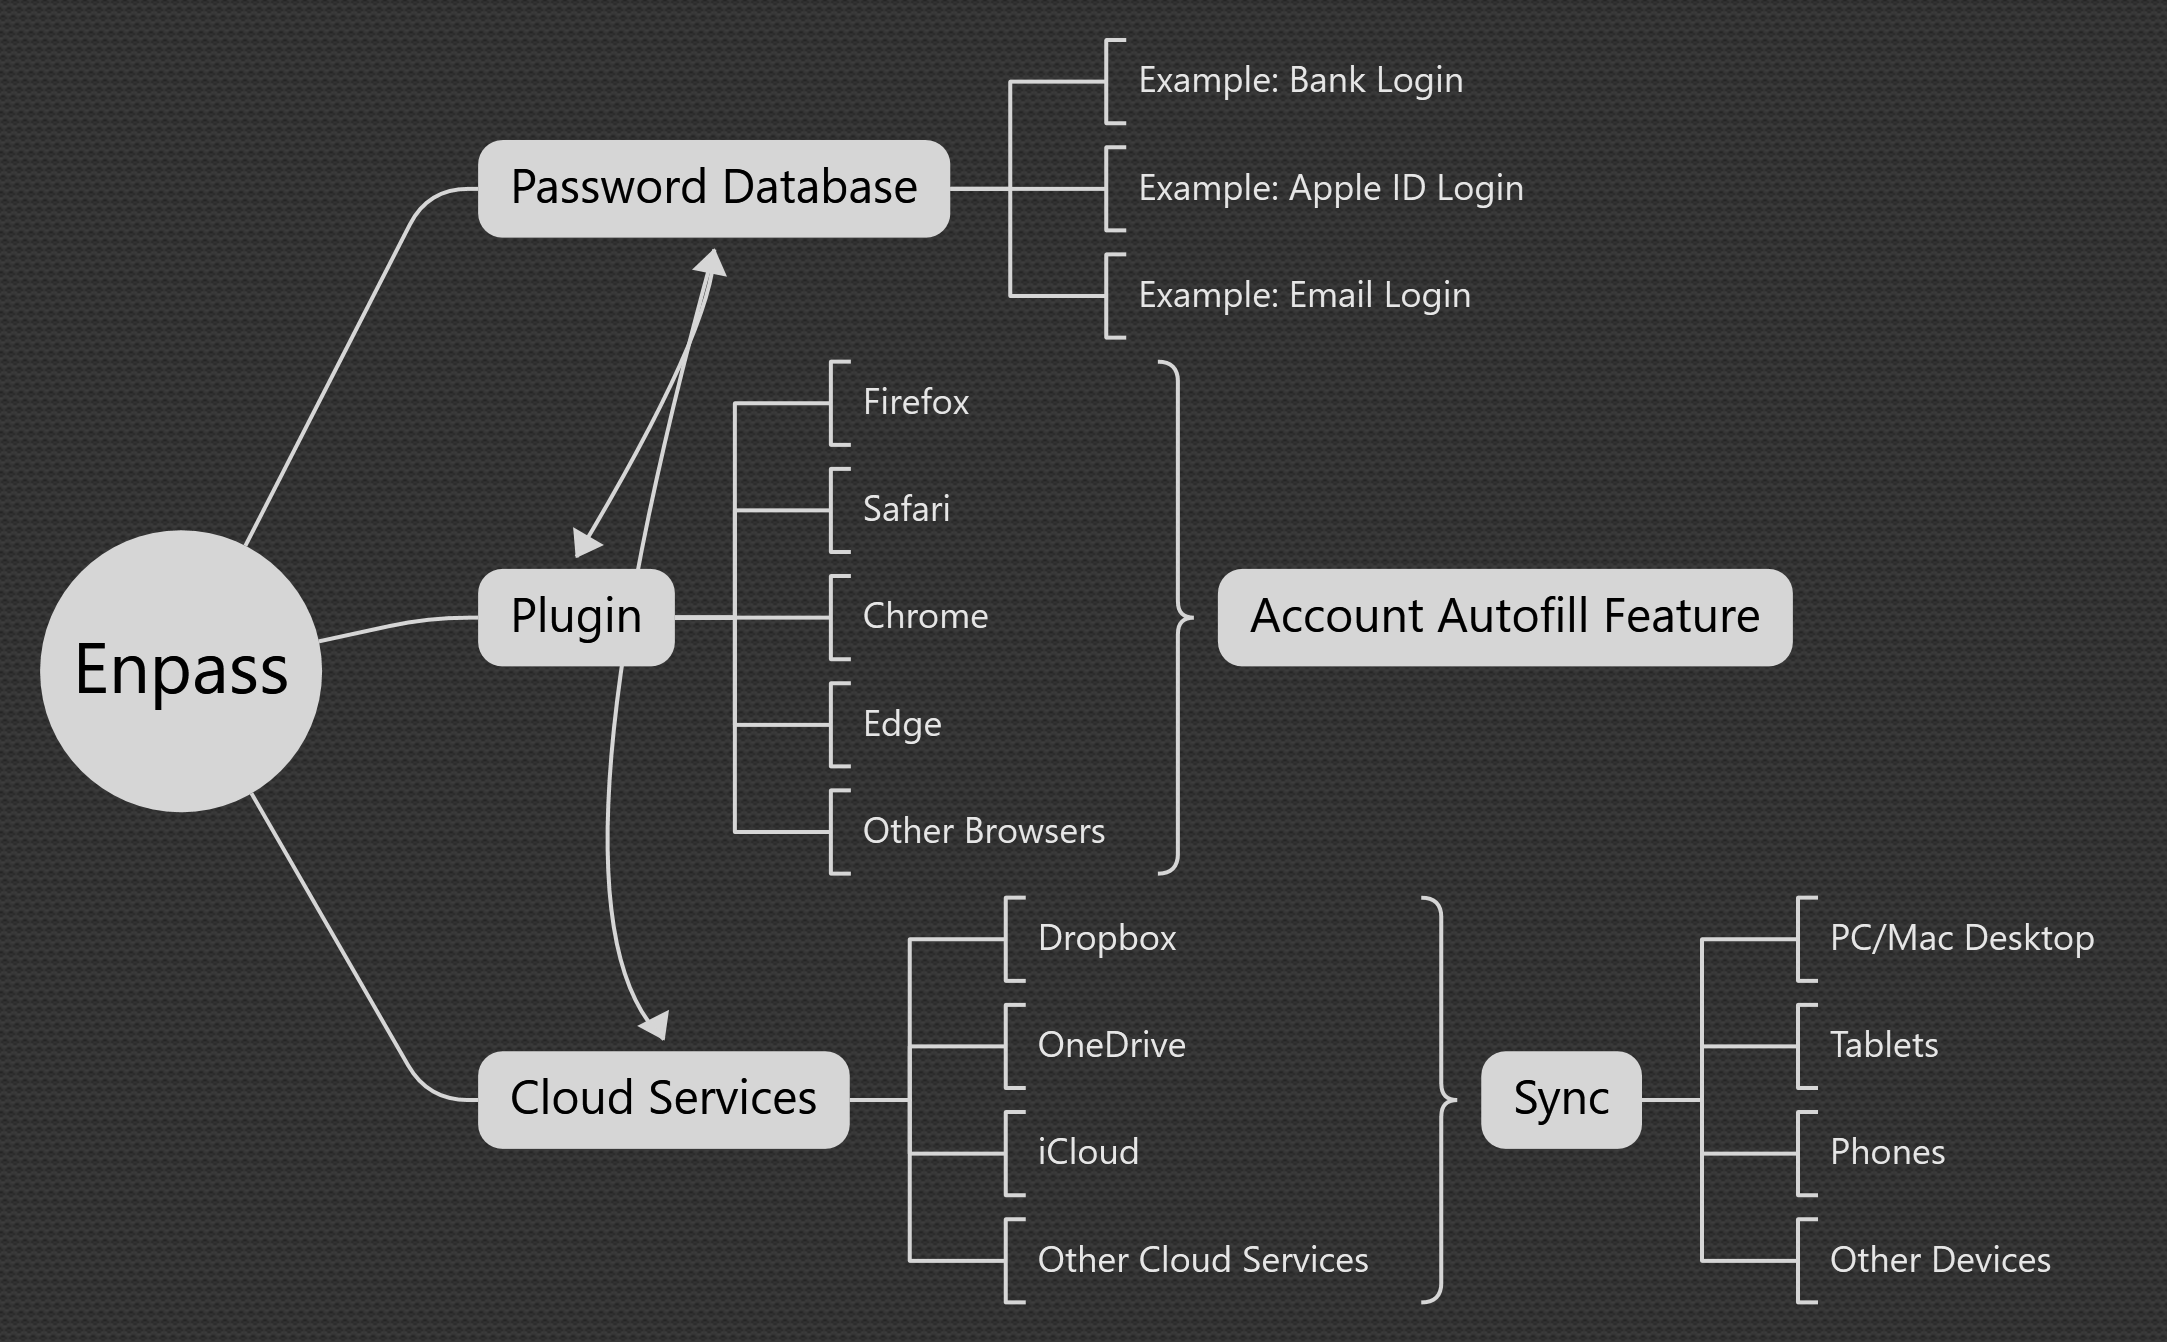
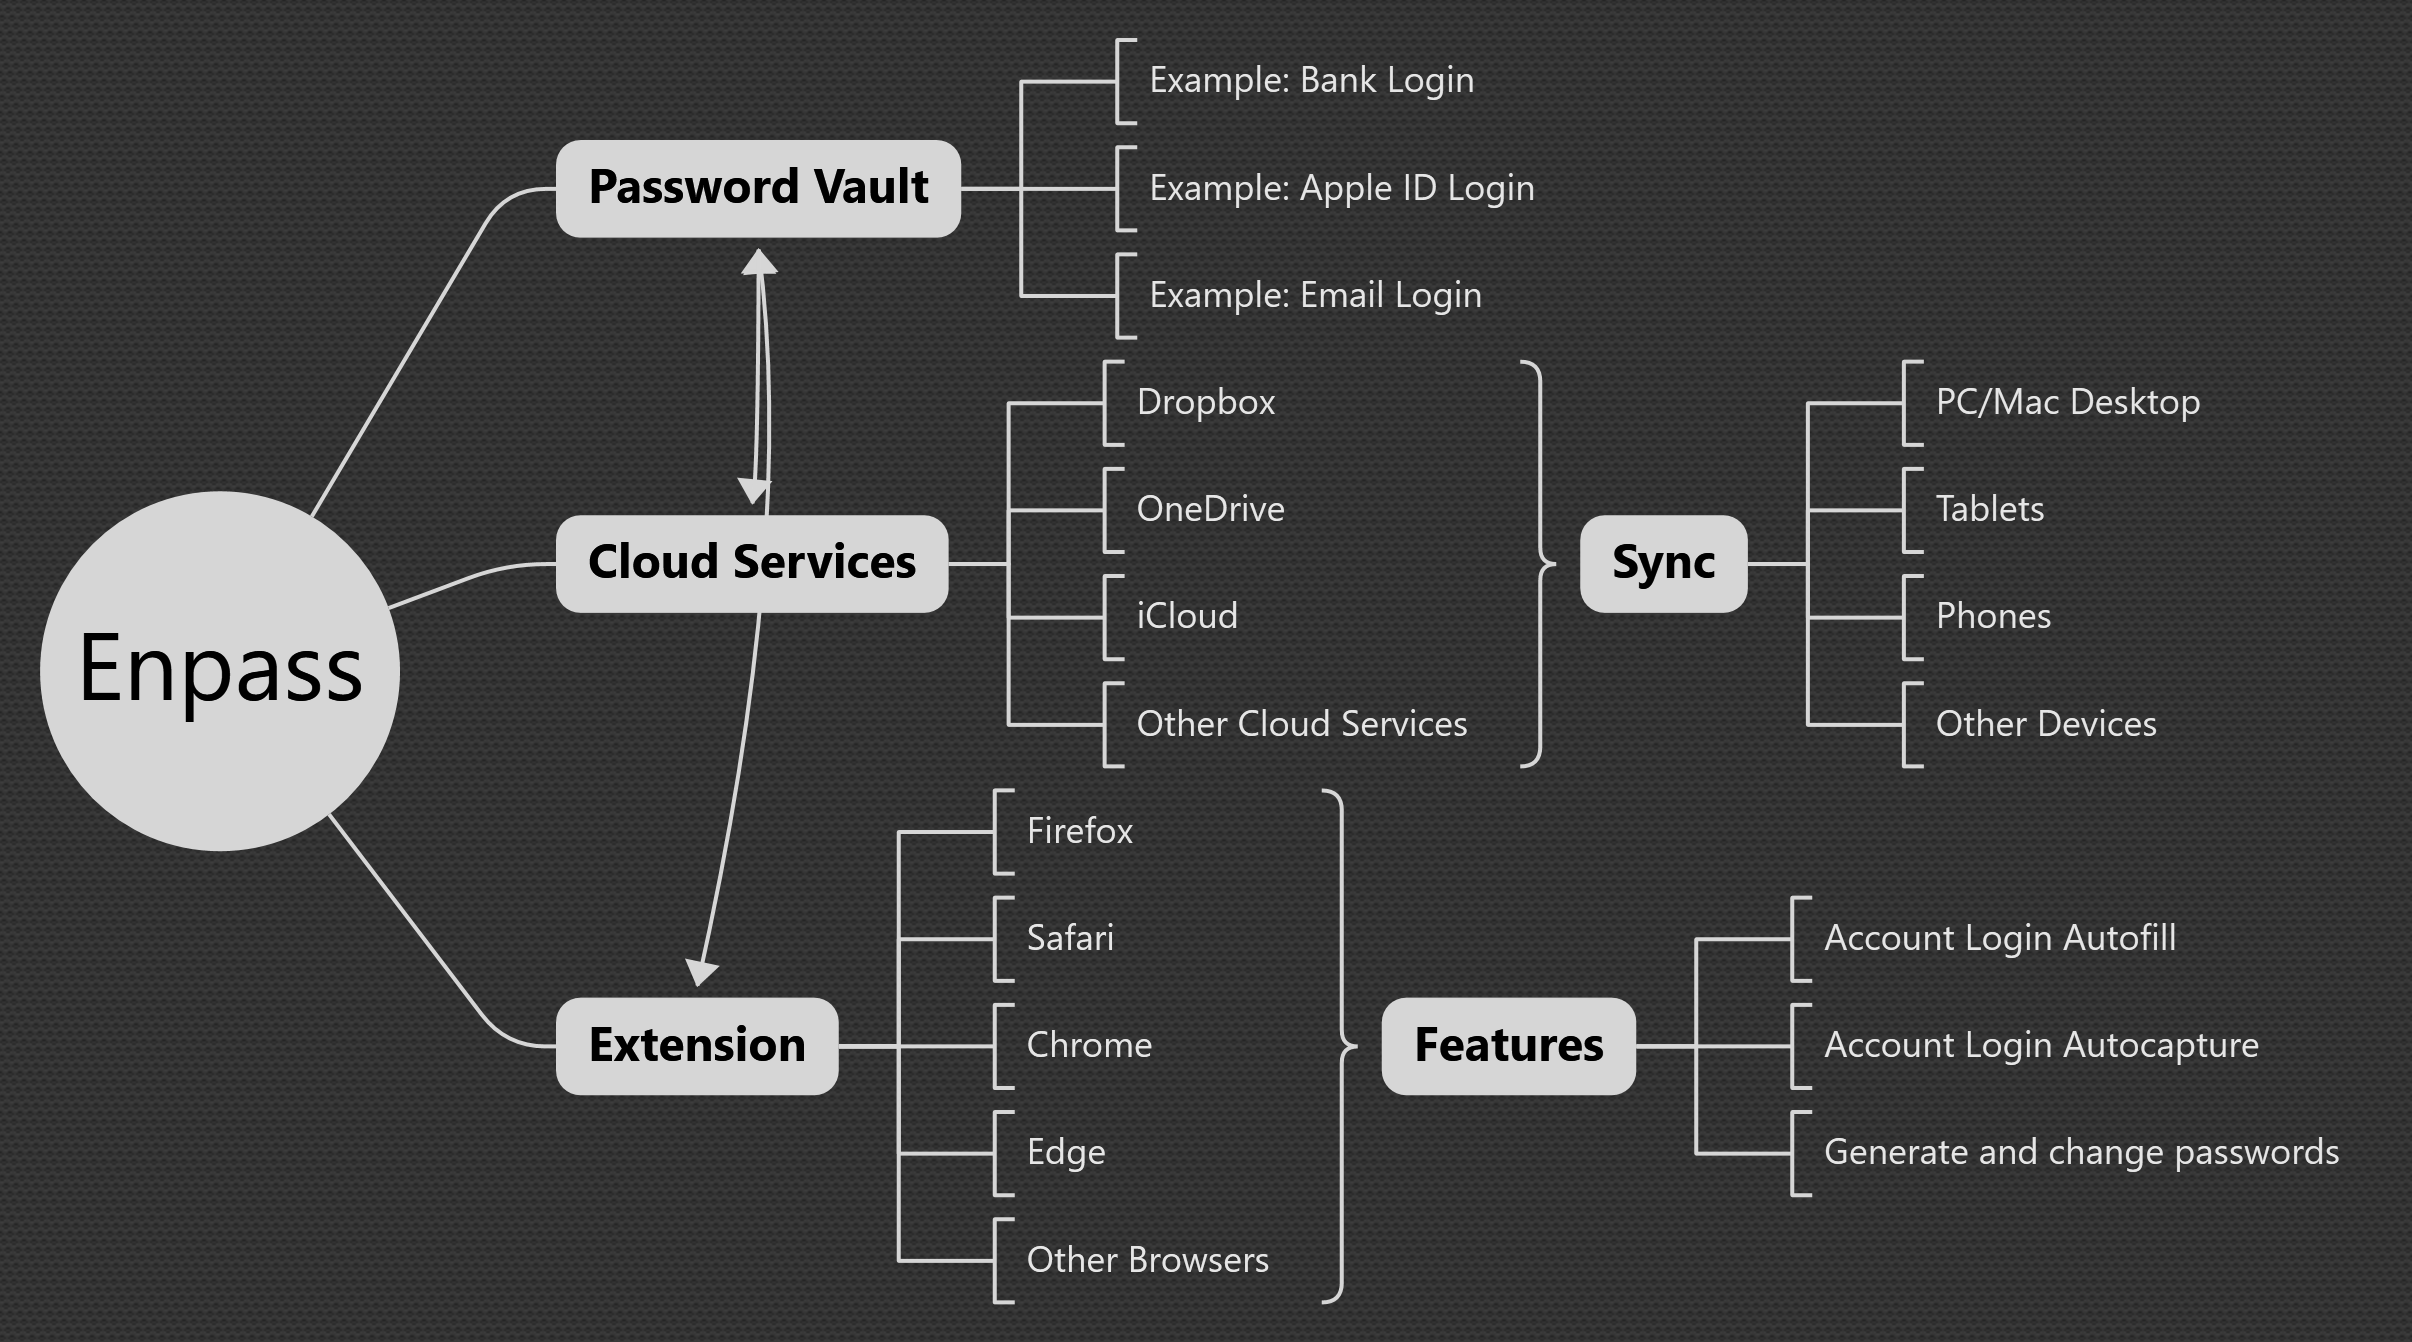
Added images and finished guide

diff --git a/content/guides/guide-enpass-password-manager.md b/content/guides/guide-enpass-password-manager.md
@@ -1,7 +1,7 @@
 +++
 title = "How to Use the Enpass Password Manager"
 date = 2022-11-01T06:33:32-07:00
-draft = true
+draft = false
 
 # Tags and categories
 # For example, use `tags = []` for no tags, or the form `tags = ["A Tag", "Another Tag"]` for one or more tags.
@@ -19,9 +19,96 @@ caption = ""
 Enpass is [cross-platform](/terms/term-cross-platform) Password Manager. Password Mangers help you keep track of your account information. Learn about [why this is important](\publications\publication-why-password-managers.md) and [why I recommend everyone use one](\recommendations\recommendation-password-managers.md).
 
 Enpass relies on 3rd party [cloud services](/terms/term-cloud-service) to sync your information between your devices such as a PC/Mac Desktop, a Tablet or a phone. I choose solutions that are tolerant to change as much as possible.
- 
-This guide covers the basics of [setting up a Enpass on a new device](), [how to add new information to the app]() and [how to use Enpass to log into your accounts]().
 
-![Graph on how Enpass works](\img\guides\Enpass\Diagram-Enpass.png)
- 
+![Graph on how Enpass works](/img/guides/Enpass/Diagram-Enpass.png)
+
+## Understanding how Enpass Works
+
+Enpass can appear complicated at first, but once you understand how to use it, it will become second nature.
+
+Enpass relies on 3 parts to keep track of and make entering passwords easier for you.
+
+The first important component is the "**Password Vault**". This is an encrypted file where your information is stored. Any time you use Enpass to grab or save information, you do so via the Password Vault. Normally this file is stored on your computer. Enpass makes use of a **Cloud Service** to synchronize information in your Vault to cloud storage. That way, when you setup Enpass on another device such as a mobile device, and add information into it, that information gets synced between any device you have setup Enpass on.
+
+Normally, you can open your Database/Vault and view/add information similar to an excel file. Copying and Pasting information out of an excel into a website can be cumbersome, if you have multiple sites you visit frequently. That's why Enpass uses a **Extension** for a web browser, integrating your vault information with the login form's of any particular website you frequent. This way Enpass can automatically enter and save information into website login forms as you type it. 
+
+This guide covers the basics of [setting up a Enpass on a new device](/guides/guide-enpass-password-manager/#downloading-enpass), [how to add new information to Enpass](/guides/guide-enpass-password-manager/#browser-extension) and [how to use Enpass to log into your accounts](/guides/guide-enpass-password-manager/#enpass-features). For more in-depth in formation on how to use particular features, visit the [support page](https://support.enpass.io/home.htm). 
+
+
+## Downloading Enpass
+
+![Enpass-Website-Download](/img/guides/Enpass/Enpass-Website-Download.png)
+Download [Enpass](https://www.enpass.io/)
+
+![Enpass-Website-Download-Selction](/img/guides/Enpass/Enpass-Website-Download-Selction.png)
+Chose the particular version that corosponds with the platform you use.
+
+![Enpass-Website-Open-File](/img/guides/Enpass/Enpass-Website-Open-File.png)
+Open the file and follow the instructions for your particular platform.
+
+## Installing Enpass
+
+![Enpass-Program-Install](/img/guides/Enpass/Enpass-Program-Install.png)
+
+![Enpass-Program-Cloud-Sync](/img/guides/Enpass/Enpass-Program-Cloud-Sync.png)
+
+Connect Enpass to the Cloud service you currently use. At some point it should ask you to create a Master Password for your Password Vault. Create a Password and save it in a secure but easily accessible location as you will frequently need it to access your information.                  
+
+![Enpass-Program-Cloud-Sign-in](/img/guides/Enpass/Enpass-Program-Cloud-Sign-in.png)
+Log into your cloud service
+
+![Enpass-Program-Cloud-Auth](/img/guides/Enpass/Enpass-Program-Cloud-Auth.png)
+Provide authorization for Enpass to use your Cloud Service to store your Vault.
+
+![Enpass-Program-Cloud-Link](/img/guides/Enpass/Enpass-Program-Cloud-Link.png)
+If you get a prompt to allow this site to open the enpassauth link with Enpas Password Manager, chose Yes. This will make connected again in the future easier.
+
+## Setting Up Enpass
+
+![Enpass-Program-Settings-Valut](/img/guides/Enpass/Enpass-Program-Settings-Valut.png)
+
+After the connection is completed, you should see the "Vault Settings" panel. If not, you can use the three dots at the upper right to access the settings. Here you can see the cloud service you have connected to and you can also change your Master Password.
+
+![Enpass-Program-Settings-Security](/img/guides/Enpass/Enpass-Program-Settings-Security.png)
+Click on the "Security" tab at the bottom and review the settings. I recommend changing the "System inactive for XX Minutes from 1 to 20 as 1 Minute is way to short of a time." This means that have that amount of time has passed. Enpass will lock the Value, requiring you to reenter your Master Password before gaining access to your information. You can setup a 4 digit pin to make entering that information easier. Be sure to save that PIN number somewhere else, or commit it to memory so you wont forget it. 
+
+![Enpass-Program-Settings-Broswer-Install-Extensions](/img/guides/Enpass/Enpass-Program-Settings-Broswer-Install-Extensions.png)
+Click on  the "Browser" tab and click on "Install Extensions". This will run you through the process of downloading and enabling an Extension for the Browser of your choice (A Browser is an application you use to access websites)
+
+## Browser Extension
+
+[More information on installing the browser extension](https://support.enpass.io/app/extension/installing_browser_extension.htm).
+
+[More information on connecting the browser extension](https://support.enpass.io/app/extension/connecting_browser_extension_to_enpass.htm).
+
+![Enpass-Website-Broswer-Extensions-Install](/img/guides/Enpass/Enpass-Website-Broswer-Extensions-Install.png)
+Chose the browser to install the Extension. The entry at the top will be highlighted, that is the Browser that is set as Default. (A default browser is one that opens by default when even you use a program that relies on connecting to the web. If you use another browser more often then the one selected, chose the options below.) 
+
+
+![Enpass-Addon-Auth-PassCode-Full](/img/guides/Enpass/Enpass-Addon-Auth-PassCode-Full.png)
+Enpass wants to make sure that this process is being done by a human so enter the code that is display in the top-right box.
+
+![Enpass-Website-Broswer-Extension-Success](/img/guides/Enpass/Enpass-Website-Broswer-Extension-Success.png)
+
+**If you get a prompt asking you to make Enpass the Default for saving passwords, click yes. Otherwise your browser will try to take over saving passwords for you which defeats the purpose of relying on Enpass to handle that information for you.**
+
+## Enpass Features
+
+**This guide shows you how to use Enpass from sites you already visit, for more detailed information about this process, read [Capturing and saving new items in Enpass using the browser extension](https://support.enpass.io/app/extension/capturing_and_saving_new_items_in_enpass_using_browser_extension.htm ). If you want to enter information the manual way read "[Adding Items to Enpass](https://support.enpass.io/app/item/adding_items_in_enpass.htm)"**
+
+![Enpass-Website-Login-Unlock-Auto-Add](/img/guides/Enpass/Enpass-Website-Login-Unlock-Auto-Add.png)
+Start by visiting a website that you frequent the most, one that you want Enpass to handle passwords for. 
+![Enpass-Website-Login-Add-Details](/img/guides/Enpass/Enpass-Website-Login-Add-Details.png)
+Type in your Username and Password.
+
+![Enpass-Website-Login-Add-Entry](/img/guides/Enpass/Enpass-Website-Login-Add-Entry.png)
+Click "Add to Enpass"
+![Enpass-Website-Login-Add-Item](/img/guides/Enpass/Enpass-Website-Login-Add-Item.png)
+Verify the details are correct. Use the "Show More" option to add additional information.
+
+![Enpass-Website-Login](/img/guides/Enpass/Enpass-Website-Login.png)
+The next time you visit your site, and are logged out of that site, you can select the option associated with the site and Enpass will Auto-type that information in the fields for you.
+
+Enpass will ask to auto-type information and auto-generate passwords for you when you create accounts. Please have at least one other device besides your main computer, such as a mobile device, setup with Enpass, so you can access that information on the go. After you have set up all your devices. I recommend using Enpass to auto-generate passwords for any site you access, instead of relying on a password you created. Its safer and easier to use this method as the auto-generated passwords are harder to guess by attackers, and easier because Enpass handles the remembering for you. 
+
 
